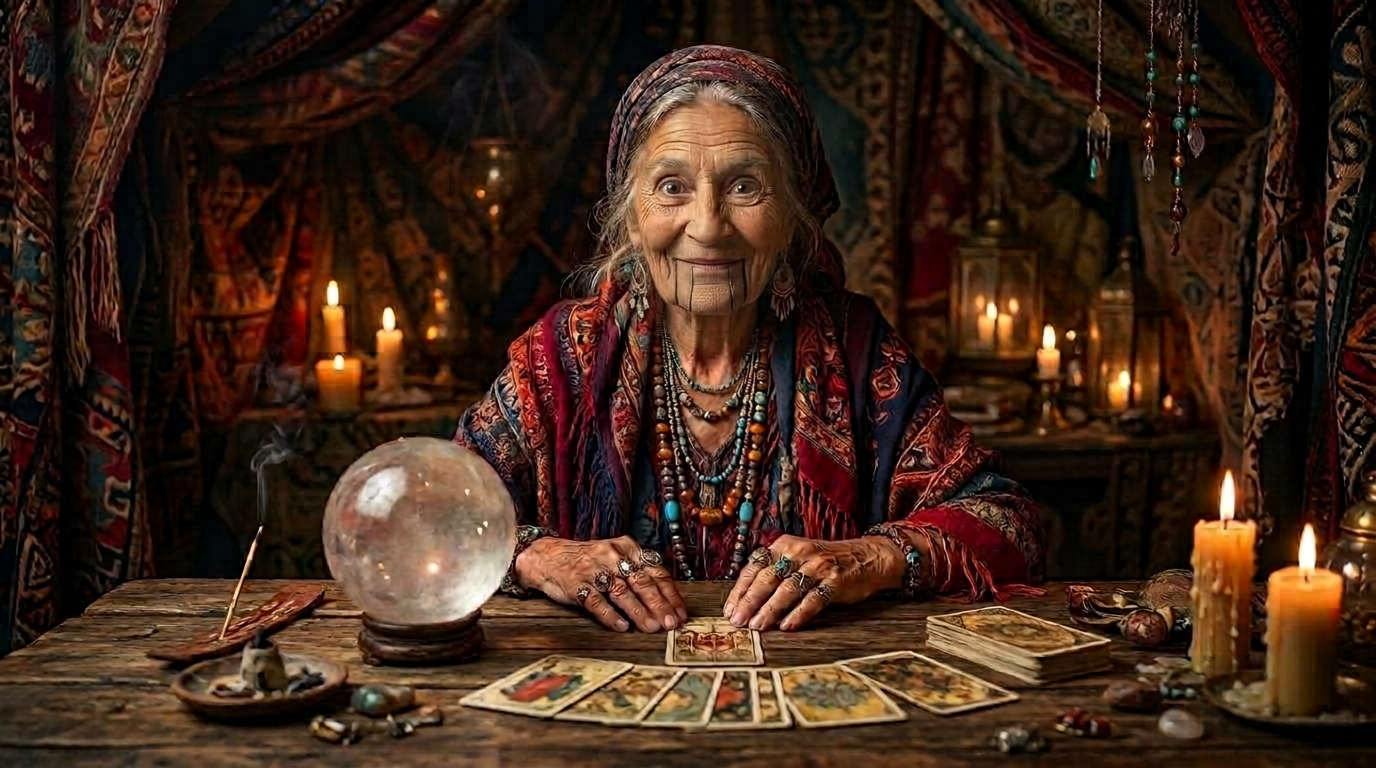
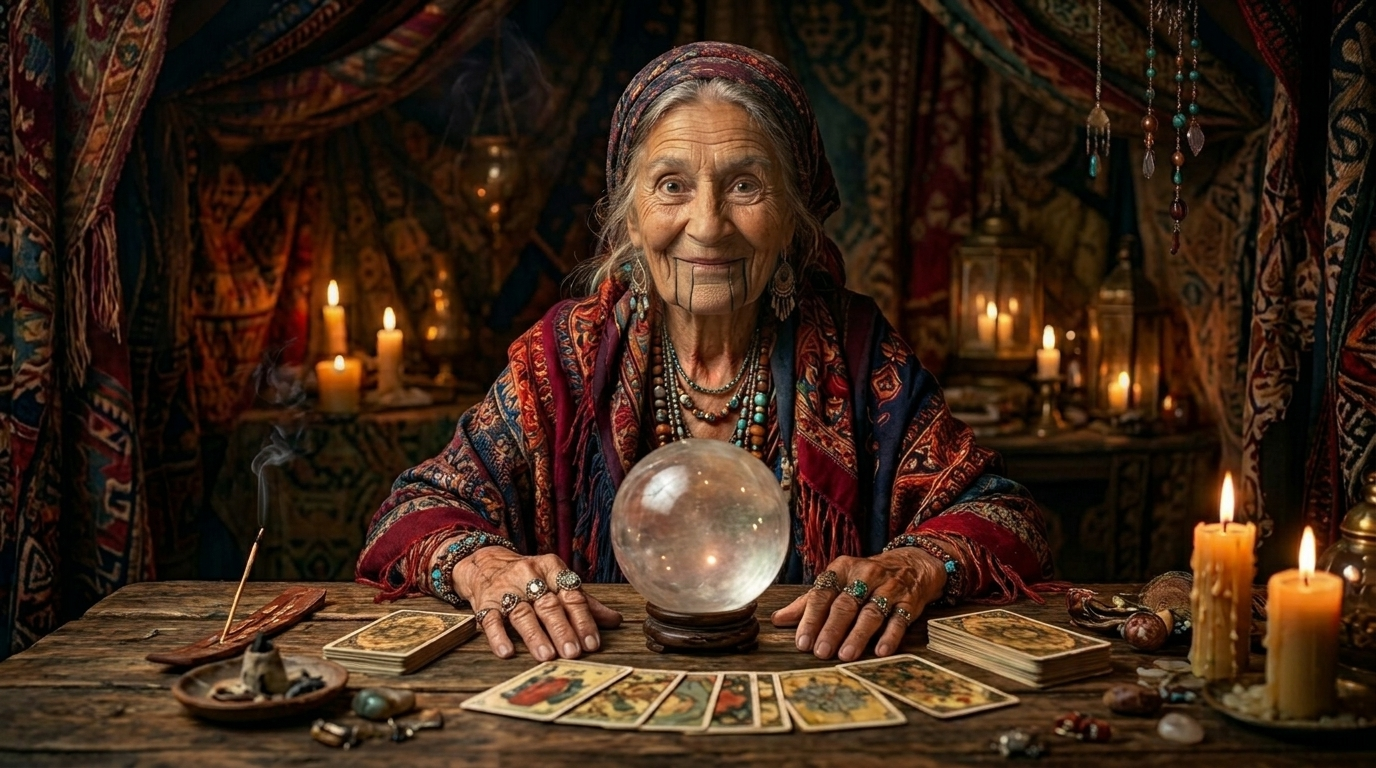
New photo of Madame Mechanika: ball in the middle; her face mesh and ball re-measured
The new base, blink, mouth and asleep frames put the crystal ball in the
centre of the table. Her face mesh is re-measured on the new base.png
(scripts/measure_face.py), the eye and mouth marks follow it, and BALL is
traced on the new ball's rim so the glow sits inside it.

diff --git a/static/js/mechanika-mesh.js b/static/js/mechanika-mesh.js
@@ -3,5 +3,5 @@
 // triangles between them that the guest's face is warped through.
 export const IDX = [10, 338, 297, 332, 284, 251, 389, 356, 454, 323, 361, 288, 397, 365, 379, 378, 400, 377, 152, 148, 176, 149, 150, 136, 172, 58, 132, 93, 234, 127, 162, 21, 54, 103, 67, 109, 70, 63, 105, 66, 107, 336, 296, 334, 293, 300, 33, 160, 158, 133, 153, 144, 362, 385, 387, 263, 373, 380, 468, 473, 168, 6, 197, 195, 5, 4, 1, 2, 98, 327, 129, 358, 61, 291, 0, 17, 13, 14, 37, 267, 84, 314, 50, 280, 205, 425, 199];
 export const OUTLINE = 36; // the first points go round her face
-export const HER = [[708.4, 131.3], [730.1, 131.4], [748.8, 133.5], [766.2, 138.6], [777.6, 147.1], [785.3, 158.3], [790.0, 170.9], [792.2, 186.9], [792.5, 202.7], [792.3, 219.8], [790.2, 238.3], [785.2, 257.7], [777.4, 273.8], [768.0, 285.8], [755.7, 295.9], [745.3, 302.8], [734.3, 308.6], [722.1, 312.8], [707.6, 313.8], [693.6, 312.1], [682.4, 307.5], [672.8, 301.3], [663.7, 294.4], [653.1, 284.4], [645.5, 272.7], [639.3, 256.8], [635.2, 237.4], [633.3, 219.2], [633.0, 202.7], [632.7, 187.3], [633.9, 171.9], [637.3, 159.4], [643.5, 148.3], [653.3, 139.8], [668.9, 134.3], [686.8, 131.9], [645.5, 168.6], [651.9, 161.8], [661.5, 158.0], [674.8, 158.6], [690.9, 161.8], [725.5, 161.6], [741.9, 157.8], [756.0, 156.6], [766.6, 160.1], [774.0, 167.0], [660.0, 188.7], [667.0, 183.4], [678.4, 183.6], [691.0, 193.3], [679.9, 194.8], [668.4, 194.4], [728.1, 193.2], [740.8, 183.3], [752.3, 182.8], [759.6, 187.7], [750.6, 193.6], [739.0, 194.2], [674.5, 189.0], [745.6, 188.5], [708.8, 185.7], [708.9, 196.6], [708.7, 205.2], [708.8, 212.7], [708.7, 220.9], [708.6, 230.6], [708.7, 237.7], [709.1, 243.6], [689.9, 239.5], [729.0, 239.7], [686.1, 232.1], [732.8, 232.1], [675.1, 258.9], [744.8, 260.4], [709.0, 258.9], [708.7, 272.5], [708.9, 264.3], [709.0, 264.6], [699.5, 257.2], [718.8, 257.4], [699.6, 271.6], [718.0, 271.9], [652.0, 224.4], [766.4, 224.5], [660.9, 234.5], [757.0, 234.9], [707.5, 300.9]];
-export const TRIS = [[10, 85, 83], [26, 82, 84], [82, 70, 84], [7, 45, 6], [45, 5, 6], [25, 26, 84], [25, 72, 24], [72, 25, 84], [72, 23, 24], [9, 83, 8], [9, 10, 83], [0, 40, 35], [39, 34, 35], [40, 39, 35], [39, 40, 48], [19, 86, 18], [73, 15, 81], [11, 85, 10], [73, 11, 12], [11, 73, 85], [27, 82, 26], [68, 72, 84], [70, 68, 84], [68, 70, 65], [66, 68, 65], [2, 42, 1], [43, 2, 3], [43, 42, 2], [5, 44, 4], [45, 44, 5], [44, 3, 4], [44, 43, 3], [22, 23, 72], [80, 22, 72], [22, 80, 21], [86, 75, 81], [75, 86, 80], [50, 58, 48], [46, 51, 82], [51, 70, 82], [51, 50, 70], [51, 58, 50], [34, 38, 33], [39, 38, 34], [38, 32, 33], [86, 17, 18], [15, 16, 81], [16, 86, 81], [16, 17, 86], [80, 20, 21], [86, 20, 80], [20, 86, 19], [13, 73, 12], [73, 69, 85], [69, 66, 65], [28, 46, 82], [27, 28, 82], [46, 28, 29], [28, 27, 29], [78, 80, 72], [68, 78, 72], [41, 0, 1], [42, 41, 1], [0, 41, 40], [43, 54, 42], [54, 44, 45], [44, 54, 43], [76, 78, 74], [78, 76, 80], [32, 37, 31], [38, 37, 32], [47, 39, 48], [47, 38, 39], [58, 47, 48], [47, 37, 38], [47, 51, 46], [51, 47, 58], [73, 14, 15], [13, 14, 73], [79, 73, 81], [79, 69, 73], [79, 76, 74], [67, 68, 66], [67, 78, 68], [78, 67, 74], [67, 79, 74], [69, 67, 66], [79, 67, 69], [41, 60, 40], [55, 45, 7], [55, 54, 45], [55, 7, 8], [83, 55, 8], [77, 75, 80], [76, 77, 80], [75, 77, 81], [77, 79, 81], [79, 77, 76], [36, 30, 31], [37, 36, 31], [30, 36, 29], [36, 46, 29], [36, 47, 46], [47, 36, 37], [52, 60, 41], [52, 61, 60], [61, 49, 60], [49, 50, 48], [50, 49, 70], [40, 49, 48], [60, 49, 40], [53, 52, 41], [53, 41, 42], [54, 53, 42], [53, 57, 52], [49, 63, 70], [85, 71, 83], [69, 71, 85], [71, 69, 65], [57, 71, 52], [71, 63, 52], [59, 53, 54], [59, 57, 53], [52, 62, 61], [63, 62, 52], [62, 49, 61], [62, 63, 49], [64, 71, 65], [71, 64, 63], [70, 64, 65], [63, 64, 70], [55, 56, 54], [56, 59, 54], [59, 56, 57], [56, 55, 83], [71, 56, 83], [56, 71, 57]];
+export const HER = [[707.8, 130.9], [729.4, 130.9], [747.7, 133.0], [764.7, 138.0], [775.4, 146.2], [782.5, 157.1], [787.0, 169.4], [789.2, 185.0], [789.8, 200.8], [790.0, 217.8], [788.6, 236.3], [784.4, 256.1], [777.5, 272.6], [768.8, 285.0], [757.0, 295.6], [746.8, 302.8], [736.0, 309.1], [723.9, 313.7], [709.3, 315.1], [694.9, 313.7], [683.4, 309.1], [673.4, 302.7], [664.0, 295.6], [653.2, 285.4], [645.3, 273.3], [638.8, 257.2], [634.5, 237.4], [632.5, 219.1], [632.0, 202.5], [631.6, 187.2], [632.7, 171.9], [636.1, 159.5], [642.4, 148.5], [652.4, 139.8], [668.2, 134.2], [686.1, 131.6], [645.1, 169.5], [651.6, 162.8], [661.4, 159.2], [674.8, 160.1], [690.8, 163.4], [725.6, 162.6], [741.5, 158.5], [755.2, 156.9], [765.4, 160.1], [772.2, 166.7], [660.7, 188.4], [667.3, 183.1], [678.0, 182.9], [690.4, 192.1], [679.6, 193.2], [668.9, 193.3], [727.2, 192.1], [739.6, 182.8], [750.3, 182.5], [757.0, 187.2], [748.7, 192.2], [737.7, 192.8], [673.7, 187.6], [744.5, 187.4], [708.8, 185.5], [708.9, 196.2], [708.8, 204.8], [709.0, 212.4], [709.1, 220.6], [709.2, 230.3], [709.3, 237.4], [709.4, 242.7], [690.0, 238.5], [729.2, 238.2], [686.1, 231.2], [732.8, 230.6], [675.0, 258.5], [743.9, 259.0], [709.5, 257.4], [708.9, 274.1], [709.3, 263.2], [709.1, 265.3], [699.8, 255.9], [719.4, 255.9], [699.5, 273.3], [718.6, 273.1], [652.4, 224.1], [765.8, 222.9], [661.4, 234.2], [756.8, 233.5], [708.8, 301.7]];
+export const TRIS = [[86, 17, 18], [83, 8, 9], [10, 83, 9], [34, 38, 33], [38, 32, 33], [26, 82, 84], [25, 26, 84], [25, 72, 24], [72, 25, 84], [86, 16, 17], [35, 0, 40], [39, 38, 34], [35, 39, 34], [39, 35, 40], [32, 37, 31], [38, 37, 32], [8, 55, 7], [55, 8, 83], [0, 41, 40], [27, 82, 26], [78, 80, 72], [80, 20, 21], [86, 80, 75], [20, 80, 86], [72, 23, 24], [68, 72, 84], [68, 78, 72], [10, 85, 83], [11, 85, 10], [73, 11, 12], [73, 85, 11], [73, 79, 69], [85, 73, 69], [68, 67, 78], [79, 67, 69], [36, 30, 31], [37, 36, 31], [30, 36, 29], [45, 6, 7], [55, 45, 7], [6, 45, 5], [56, 57, 59], [56, 55, 83], [71, 69, 65], [64, 71, 65], [71, 85, 69], [56, 71, 57], [85, 71, 83], [71, 56, 83], [71, 52, 57], [1, 41, 0], [27, 28, 82], [19, 86, 18], [19, 20, 86], [22, 23, 72], [80, 22, 72], [22, 80, 21], [13, 73, 12], [73, 13, 14], [15, 81, 14], [81, 73, 14], [16, 81, 15], [73, 81, 79], [81, 86, 75], [81, 16, 86], [81, 76, 79], [74, 76, 78], [76, 74, 79], [67, 74, 78], [74, 67, 79], [77, 80, 78], [76, 77, 78], [80, 77, 75], [77, 81, 75], [81, 77, 76], [66, 68, 65], [66, 67, 68], [69, 66, 65], [67, 66, 69], [44, 4, 5], [45, 44, 5], [4, 44, 3], [52, 62, 61], [60, 52, 61], [52, 60, 41], [41, 60, 40], [82, 70, 84], [70, 68, 84], [70, 64, 65], [68, 70, 65], [28, 46, 82], [46, 28, 29], [36, 46, 29], [3, 43, 2], [44, 43, 3], [62, 49, 61], [49, 60, 61], [49, 70, 50], [60, 49, 40], [63, 52, 71], [63, 62, 52], [63, 71, 64], [70, 63, 64], [63, 49, 62], [49, 63, 70], [51, 70, 82], [70, 51, 50], [46, 51, 82], [48, 39, 40], [49, 48, 40], [48, 49, 50], [43, 42, 2], [42, 1, 2], [1, 42, 41], [47, 51, 46], [47, 37, 38], [39, 47, 38], [48, 47, 39], [47, 36, 37], [47, 46, 36], [54, 42, 43], [54, 56, 59], [56, 54, 55], [54, 43, 44], [54, 45, 55], [54, 44, 45], [47, 58, 51], [58, 47, 48], [51, 58, 50], [58, 48, 50], [53, 54, 59], [54, 53, 42], [42, 53, 41], [53, 52, 41], [57, 53, 59], [52, 53, 57]];

diff --git a/static/js/portrait.js b/static/js/portrait.js
@@ -8,8 +8,8 @@ const DIR = "/img/mechanika/";
 // Where things are in the 1376 x 768 pictures. Her eyes and mouth are where the
 // face mesh finds them on base.png (iris centres, middle of the lips), the same
 // way the guest's are found, so the two line up.
-export const MARKS = { eyes: [{ x: 674, y: 189 }, { x: 746, y: 189 }], mouth: { x: 709, y: 264 } };
-export const BALL = { x: 418, y: 531, r: 95 };
+export const MARKS = { eyes: [{ x: 674, y: 188 }, { x: 745, y: 187 }], mouth: { x: 709, y: 264 } };
+export const BALL = { x: 700, y: 526, r: 89 };
 const FACE = { x: 708, y: 232, rx: 112, ry: 128 }; // forehead to dropped chin
 const EYES = { x: 708, y: 188, rx: 88, ry: 30 };
 
